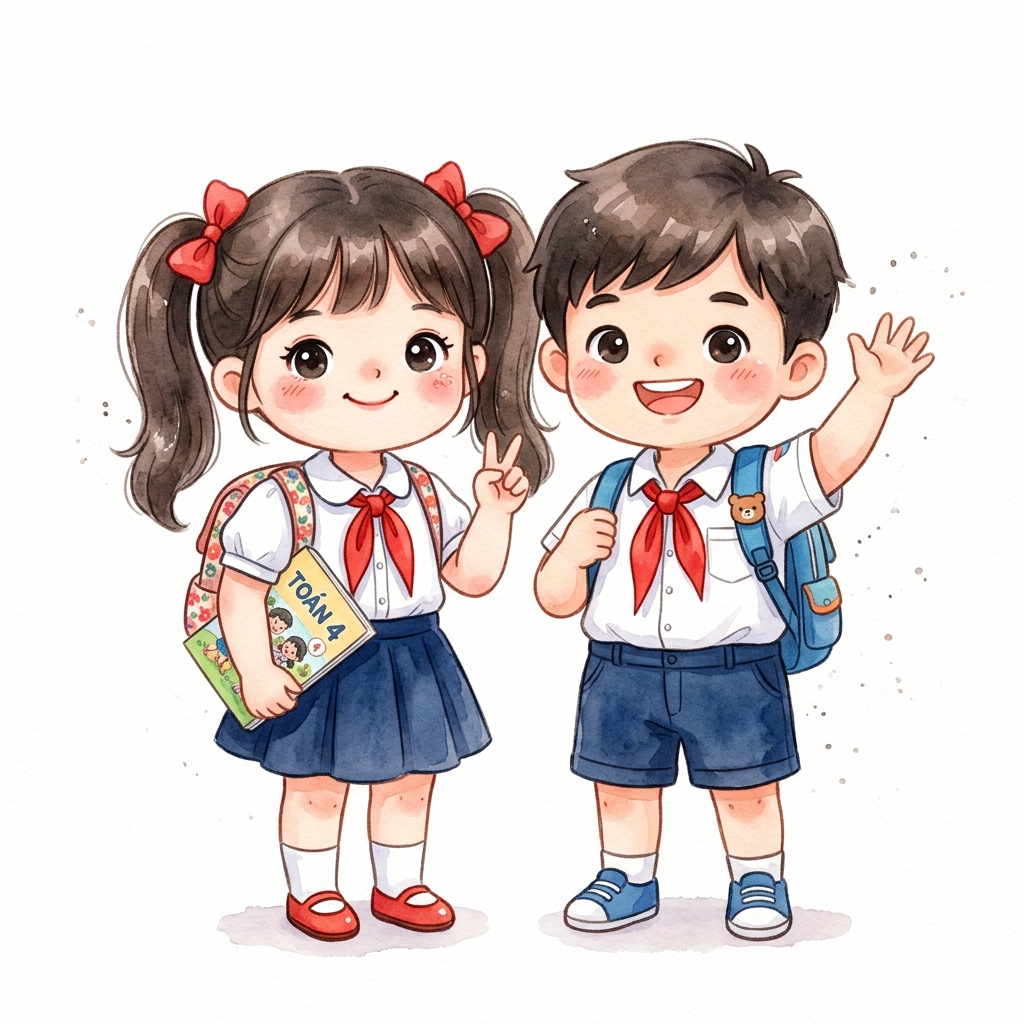
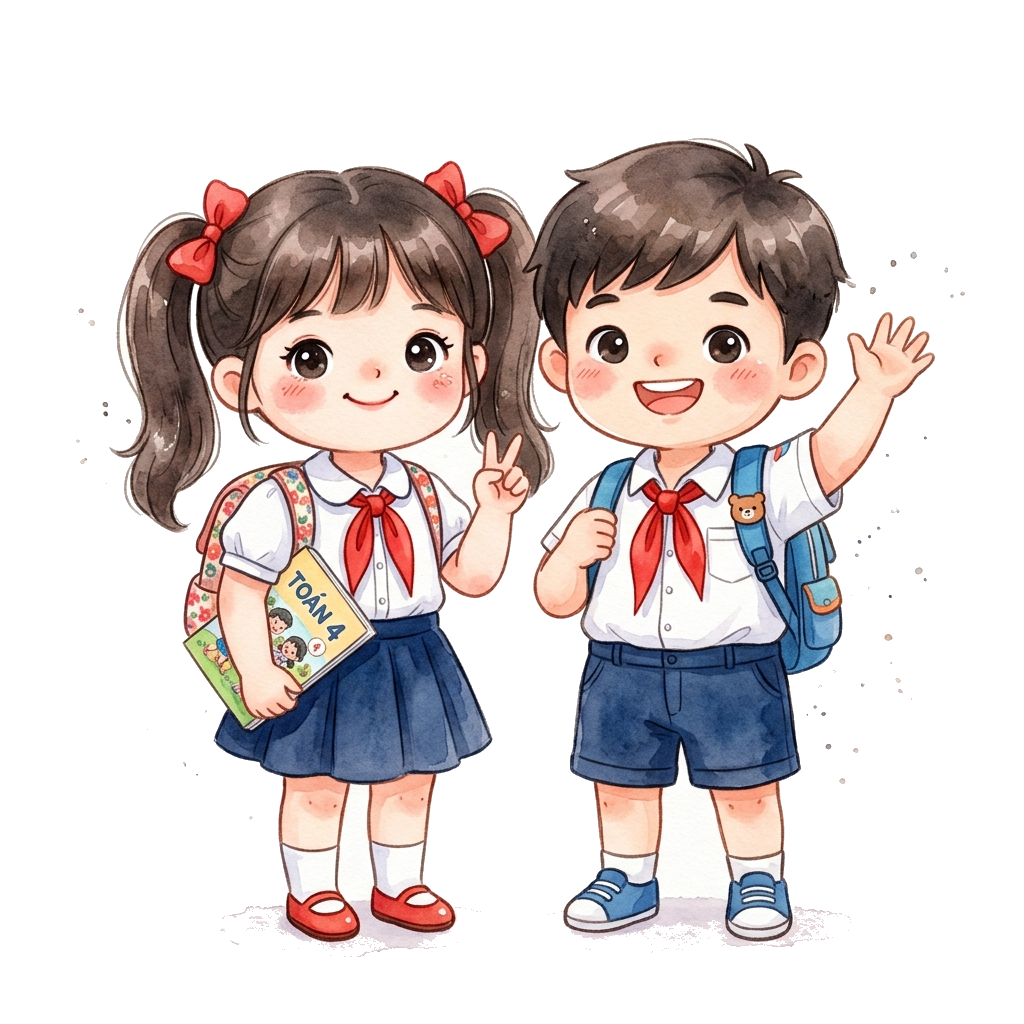
Bo hoan toan nen trang sau co giao va hoc sinh, cat vien trong suot 100%

diff --git a/index.html b/index.html
@@ -336,11 +336,11 @@
   </div>
 
   <!-- 3. Chibi Teacher (Cô giáo Chibi Thụy Lâm hiền dịu thướt tha áo dài) -->
-  <div class="pointer-events-none fixed bottom-4 left-3 2xl:left-8 z-20 hidden lg:block select-none transition-all duration-300">
-    <div class="relative group animate-bob">
-      <div class="w-36 xl:w-44 2xl:w-52 rounded-3xl p-2 bg-white/95 backdrop-blur-md border-3 border-pink-200 shadow-[0_12px_28px_-6px_rgba(244,114,182,0.35)]">
-        <img src="./chibi_co_giao.png" alt="Cô giáo Thụy Lâm Chibi" class="w-full h-auto object-contain rounded-2xl drop-shadow-sm" />
-        <div class="text-center mt-1.5 py-1 px-2 bg-gradient-to-r from-pink-500 via-rose-500 to-amber-500 rounded-xl text-white font-extrabold text-[11px] shadow-sm flex items-center justify-center gap-1">
+  <div class="pointer-events-none fixed bottom-3 left-3 2xl:left-8 z-20 hidden lg:flex flex-col items-center select-none transition-all duration-300">
+    <div class="relative group animate-bob flex flex-col items-center">
+      <div class="w-36 xl:w-44 2xl:w-52 flex flex-col items-center">
+        <img src="./chibi_co_giao.png?v=2" alt="Cô giáo Thụy Lâm Chibi" class="w-full h-auto object-contain drop-shadow-[0_12px_24px_rgba(0,0,0,0.22)]" />
+        <div class="text-center -mt-2 py-1 px-3 bg-gradient-to-r from-pink-500 via-rose-500 to-amber-500 rounded-full text-white font-extrabold text-[11px] shadow-md flex items-center justify-center gap-1 border-2 border-white">
           <span>🌸</span> <span>Cô giáo Thụy Lâm</span>
         </div>
       </div>
@@ -348,11 +348,11 @@
   </div>
 
   <!-- 4. Chibi Students (Hai bạn học sinh Chibi khăn quàng đỏ tung tăng) -->
-  <div class="pointer-events-none fixed bottom-4 right-3 2xl:right-8 z-20 hidden lg:block select-none transition-all duration-300">
-    <div class="relative group animate-bob-delay">
-      <div class="w-40 xl:w-48 2xl:w-56 rounded-3xl p-2 bg-white/95 backdrop-blur-md border-3 border-sky-200 shadow-[0_12px_28px_-6px_rgba(56,189,248,0.35)]">
-        <img src="./chibi_hoc_sinh.png" alt="Học sinh Chibi chăm ngoan" class="w-full h-auto object-contain rounded-2xl drop-shadow-sm" />
-        <div class="text-center mt-1.5 py-1 px-2 bg-gradient-to-r from-sky-500 via-blue-500 to-indigo-500 rounded-xl text-white font-extrabold text-[11px] shadow-sm flex items-center justify-center gap-1">
+  <div class="pointer-events-none fixed bottom-3 right-3 2xl:right-8 z-20 hidden lg:flex flex-col items-center select-none transition-all duration-300">
+    <div class="relative group animate-bob-delay flex flex-col items-center">
+      <div class="w-40 xl:w-48 2xl:w-56 flex flex-col items-center">
+        <img src="./chibi_hoc_sinh.png?v=2" alt="Học sinh Chibi chăm ngoan" class="w-full h-auto object-contain drop-shadow-[0_12px_24px_rgba(0,0,0,0.22)]" />
+        <div class="text-center -mt-2 py-1 px-3 bg-gradient-to-r from-sky-500 via-blue-500 to-indigo-500 rounded-full text-white font-extrabold text-[11px] shadow-md flex items-center justify-center gap-1 border-2 border-white">
           <span>🎒</span> <span>Học sinh chăm ngoan</span>
         </div>
       </div>
@@ -445,10 +445,10 @@
 
         <!-- Cute Chibi Illustration & Stat Badges -->
         <div class="flex flex-col sm:flex-row items-center gap-4 shrink-0 w-full lg:w-auto justify-center">
-          <div class="relative group hidden sm:block">
-            <div class="w-36 lg:w-44 rounded-3xl p-2 bg-white/95 backdrop-blur-sm border-3 border-pink-200 shadow-md rotate-1 hover:rotate-0 transition-transform duration-300">
-              <img src="./co_va_tro.png" alt="Cô trò Trường TH &amp; THCS Thụy Lâm" class="w-full h-auto object-contain rounded-2xl" />
-              <div class="text-center mt-1 py-0.5 px-2 bg-gradient-to-r from-pink-500 to-rose-500 rounded-xl text-white font-extrabold text-[10px] shadow-xs">
+          <div class="relative group hidden sm:flex flex-col items-center">
+            <div class="w-36 lg:w-44 flex flex-col items-center">
+              <img src="./co_va_tro.png?v=2" alt="Cô trò Trường TH &amp; THCS Thụy Lâm" class="w-full h-auto object-contain drop-shadow-[0_10px_20px_rgba(0,0,0,0.18)] hover:scale-105 transition-transform" />
+              <div class="text-center -mt-2 py-0.5 px-3 bg-gradient-to-r from-pink-500 to-rose-500 rounded-full text-white font-extrabold text-[10px] shadow-md border-2 border-white">
                 🌸 Mái trường Thụy Lâm
               </div>
             </div>
